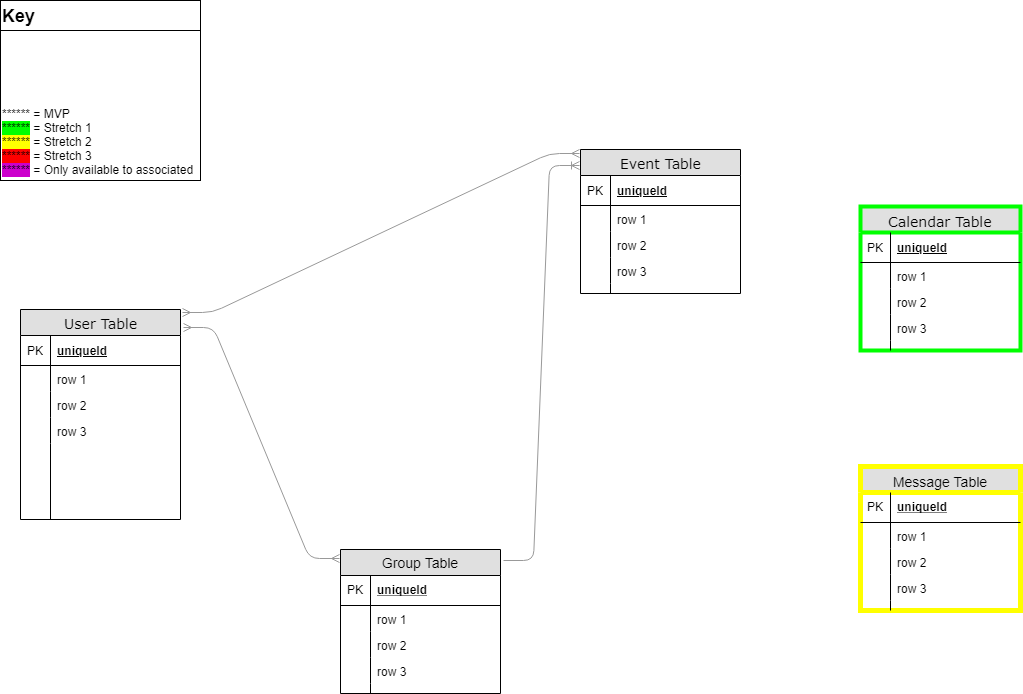
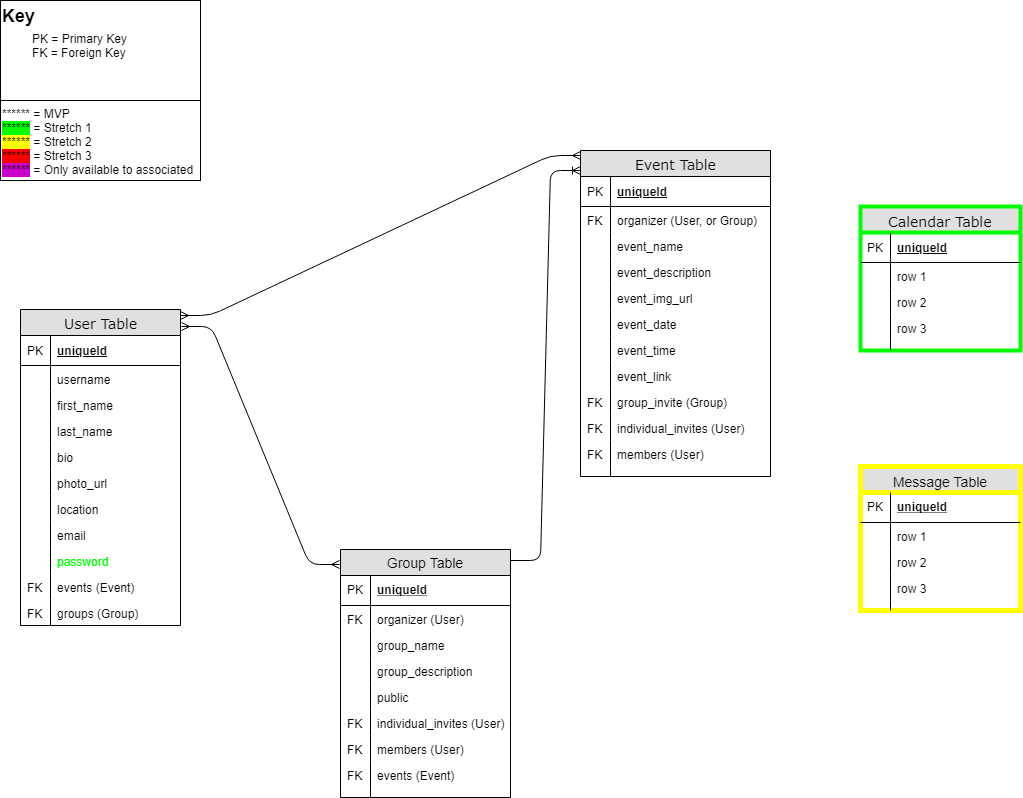
Random frustration edits

diff --git a/socdist_app/migrations/0003_auto_20200407_1350.py b/socdist_app/migrations/0003_auto_20200407_1350.py
@@ -1,0 +1,66 @@
+# Generated by Django 3.0.5 on 2020-04-07 17:50
+
+from django.db import migrations, models
+
+
+class Migration(migrations.Migration):
+
+    dependencies = [
+        ('socdist_app', '0002_auto_20200407_0337'),
+    ]
+
+    operations = [
+        migrations.AlterModelOptions(
+            name='event',
+            options={'ordering': ['name']},
+        ),
+        migrations.AlterModelOptions(
+            name='group',
+            options={'ordering': ['name']},
+        ),
+        migrations.RenameField(
+            model_name='event',
+            old_name='event_date',
+            new_name='date',
+        ),
+        migrations.RenameField(
+            model_name='event',
+            old_name='event_description',
+            new_name='info',
+        ),
+        migrations.RenameField(
+            model_name='event',
+            old_name='event_name',
+            new_name='name',
+        ),
+        migrations.RenameField(
+            model_name='event',
+            old_name='event_time',
+            new_name='time',
+        ),
+        migrations.RenameField(
+            model_name='group',
+            old_name='group_description',
+            new_name='description',
+        ),
+        migrations.RenameField(
+            model_name='group',
+            old_name='group_img_url',
+            new_name='img_url',
+        ),
+        migrations.RenameField(
+            model_name='group',
+            old_name='group_name',
+            new_name='name',
+        ),
+        migrations.AlterField(
+            model_name='event',
+            name='attending',
+            field=models.ManyToManyField(related_name='events', to='socdist_app.User'),
+        ),
+        migrations.AlterField(
+            model_name='group',
+            name='members',
+            field=models.ManyToManyField(related_name='groups', to='socdist_app.User'),
+        ),
+    ]

diff --git a/socdist_app/models.py b/socdist_app/models.py
@@ -13,27 +13,28 @@ class User(models.Model):
     def __str__(self):
         return self.username
 
+
 class Group(models.Model):
-    group_name = models.CharField(max_length=60)
-    group_description = models.CharField(max_length=240)
-    group_img_url = models.CharField(max_length=240)
-    members = models.ManyToManyField(User, related_name='my_groups')
+    name = models.CharField(max_length=60)
+    description = models.CharField(max_length=240)
+    img_url = models.CharField(max_length=240)
+    members = models.ManyToManyField(User, related_name='groups')
 
     class Meta:
-        ordering = ['group_name']
+        ordering = ['name']
 
     def __str__(self):
-        return self.group_name
+        return self.name
+
 
 class Event(models.Model):
-    event_name = models.CharField(max_length=60)
-    event_description = models.CharField(max_length=240)
-    event_date = models.DateField()
-    event_time = models.TimeField()
-    attending = models.ManyToManyField(User, related_name='my_events')
+    name = models.CharField(max_length=60)
+    info = models.CharField(max_length=240)
+    date = models.DateTimeField(auto_now=False)
+    attending = models.ManyToManyField(User, related_name='events')
     
     class Meta:
-        ordering = ['event_name']
+        ordering = ['name']
 
     def __str__(self):
-        return self.event_name
+        return self.name

diff --git a/socdist_app/serializers.py b/socdist_app/serializers.py
@@ -4,16 +4,16 @@ from .models import User, Group, Event
 class EventSerializer(serializers.ModelSerializer):
     class Meta:
         model = Event
-        fields = ('id', 'event_name', 'event_description', 'event_date', 'event_time', 'attending')
+        fields = ('id', 'name', 'info', 'date', 'time', 'attending')
 
 class GroupSerializer(serializers.ModelSerializer):
         class Meta:
             model = Group
-            fields = ('id', 'group_name', 'group_description','event_img_url', 'members')
+            fields = ('id', 'name', 'description','img_url', 'members')
 
 class UserSerializer(serializers.ModelSerializer):
-    my_groups = GroupSerializer(many=True, read_only=True)
-    my_events = EventSerializer(many=True, read_only=True)
+    groups = GroupSerializer(many=True, read_only=True)
+    events = EventSerializer(many=True, read_only=True)
     class Meta:
         model = User
-        fields = ('id', 'username', 'bio', 'photo_url', 'email', 'my_groups', 'my_events')
+        fields = ('id', 'username', 'password', 'bio', 'photo_url', 'email', 'groups', 'events')

diff --git a/socdist_project/settings.py b/socdist_project/settings.py
@@ -44,6 +44,8 @@ INSTALLED_APPS = [
     'rest_framework',
     'django_extensions',
     'socdist_app',
+    # # Authentication
+    # 'rest_framework.authtoken',
 ]
 
 MIDDLEWARE = [
@@ -76,6 +78,20 @@ TEMPLATES = [
 
 WSGI_APPLICATION = 'socdist_project.wsgi.application'
 
+
+###################
+# PAY ATTENTION!!!#
+###################
+
+# REST_FRAMEWORK = {
+#     # Use Django's standard `django.contrib.auth` permissions,
+#     # or allow read-only access for unauthorized users.
+#     'DEFAULT_PERMISSION_CLASSES': [
+#         'rest_framework.permissions.IsAuthenticated'
+#     ],
+#     'DEFAULT_AUTHENTICATION_CLASSES': (
+#     'rest_framework.authentication.TokenAuthentication')
+# }
 
 # Database
 # https://docs.djangoproject.com/en/3.0/ref/settings/#databases

diff --git a/socdist_app/migrations/0004_auto_20200407_1437.py b/socdist_app/migrations/0004_auto_20200407_1437.py
@@ -1,0 +1,22 @@
+# Generated by Django 3.0.5 on 2020-04-07 18:37
+
+from django.db import migrations, models
+
+
+class Migration(migrations.Migration):
+
+    dependencies = [
+        ('socdist_app', '0003_auto_20200407_1350'),
+    ]
+
+    operations = [
+        migrations.RemoveField(
+            model_name='event',
+            name='time',
+        ),
+        migrations.AlterField(
+            model_name='event',
+            name='date',
+            field=models.DateTimeField(),
+        ),
+    ]

diff --git a/socdist_app/views.py b/socdist_app/views.py
@@ -1,4 +1,4 @@
-from rest_framework import viewsets
+from rest_framework import serializers, viewsets, permissions
 from .serializers import UserSerializer, GroupSerializer, EventSerializer
 from .models import User, Group, Event
 

diff --git a/socdist_app/urls.py b/socdist_app/urls.py
@@ -1,3 +1,4 @@
+from django.contrib import admin
 from django.urls import path, include
 from rest_framework import routers
 from . import views

diff --git a/README.md b/README.md
@@ -6,6 +6,8 @@
 
 The purpose of this application is to provide a space to organize virtual gatherings, for those that cannot gather face to face.  
 
+[Project board](https://git.generalassemb.ly/DRHood/Project-4-Social-Distance/projects/1)
+
 ### Publicly deployed app
 
 [Social Distance App](https://social-distance-app.herokuapp.com/)
@@ -34,7 +36,7 @@ The purpose of this application is to provide a space to organize virtual gather
 
 #### Event View
 
-(Todo)
+[![Project 4, event view](/p4_images/SD_5b.png "Project 4, event view")](/p4_images/SD_5b.png)
 
 #### Manage Event View
 
